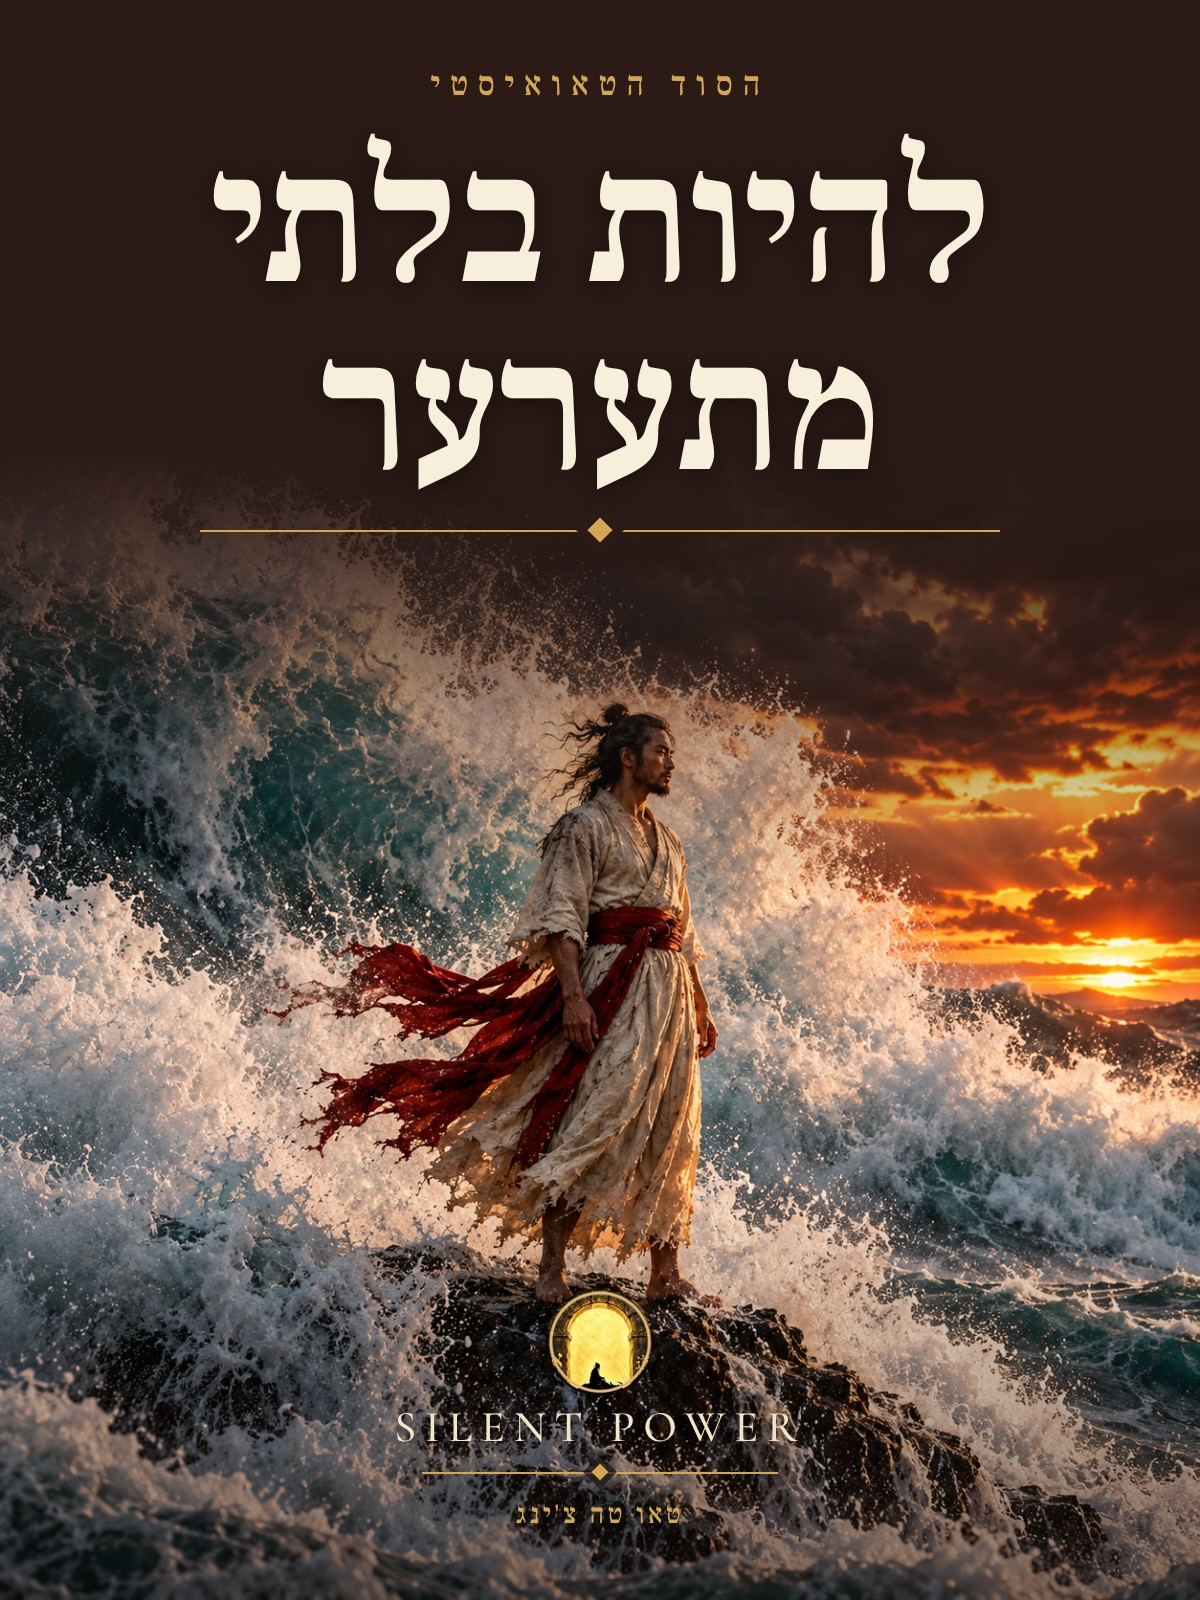
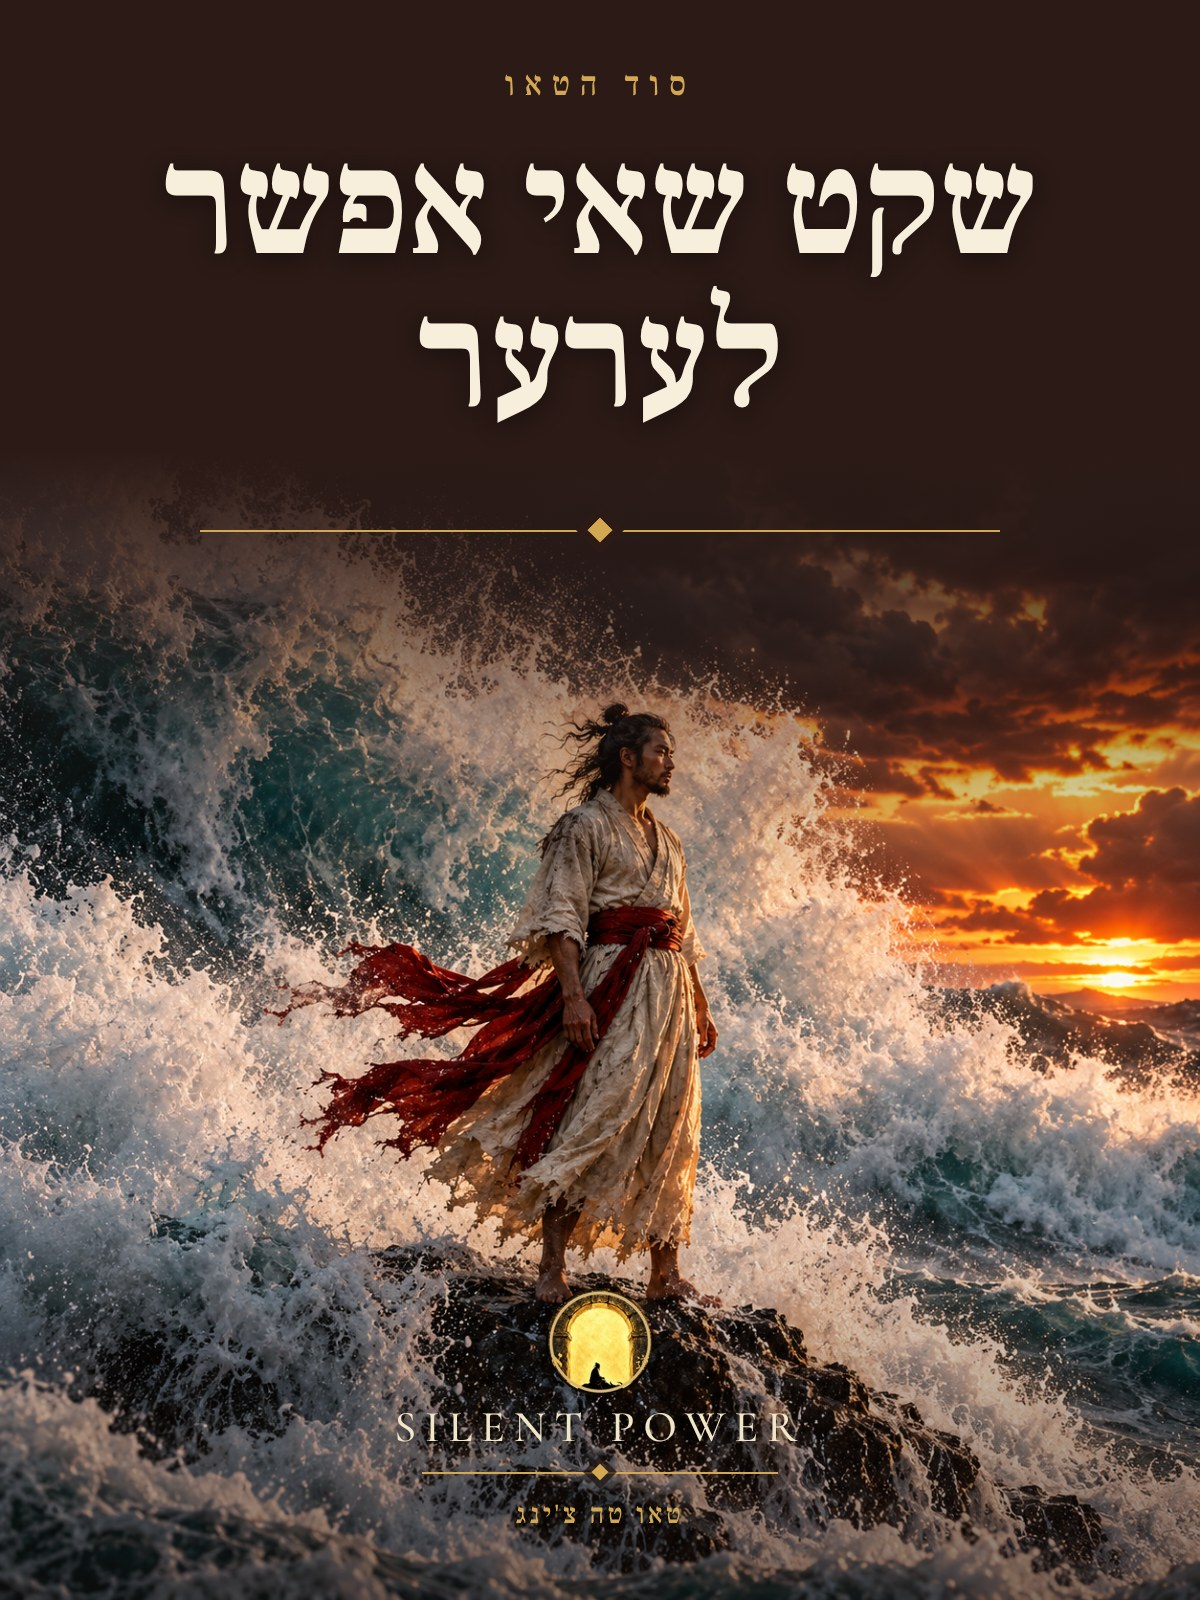
Hebrew paid book renamed: סוד הטאו לשקט שאי אפשר לערער
Claude-Session: https://claude.ai/code/session_01KMDhiMT5LuwpbVUB7yvckg

Changed region(s): [[0.1233, 0.0625, 0.8633, 0.3125], [0.4625, 0.0312, 0.6167, 0.0625], [0.37, 0.0312, 0.4317, 0.0625]]

diff --git a/src/content/products/frictionless-he.md b/src/content/products/frictionless-he.md
@@ -1,5 +1,5 @@
 ---
-title: "הסוד הטאואיסטי להיות בלתי מתערער"
+title: "סוד הטאו לשקט שאי אפשר לערער"
 language: he
 category: hebrew
 kind: book
